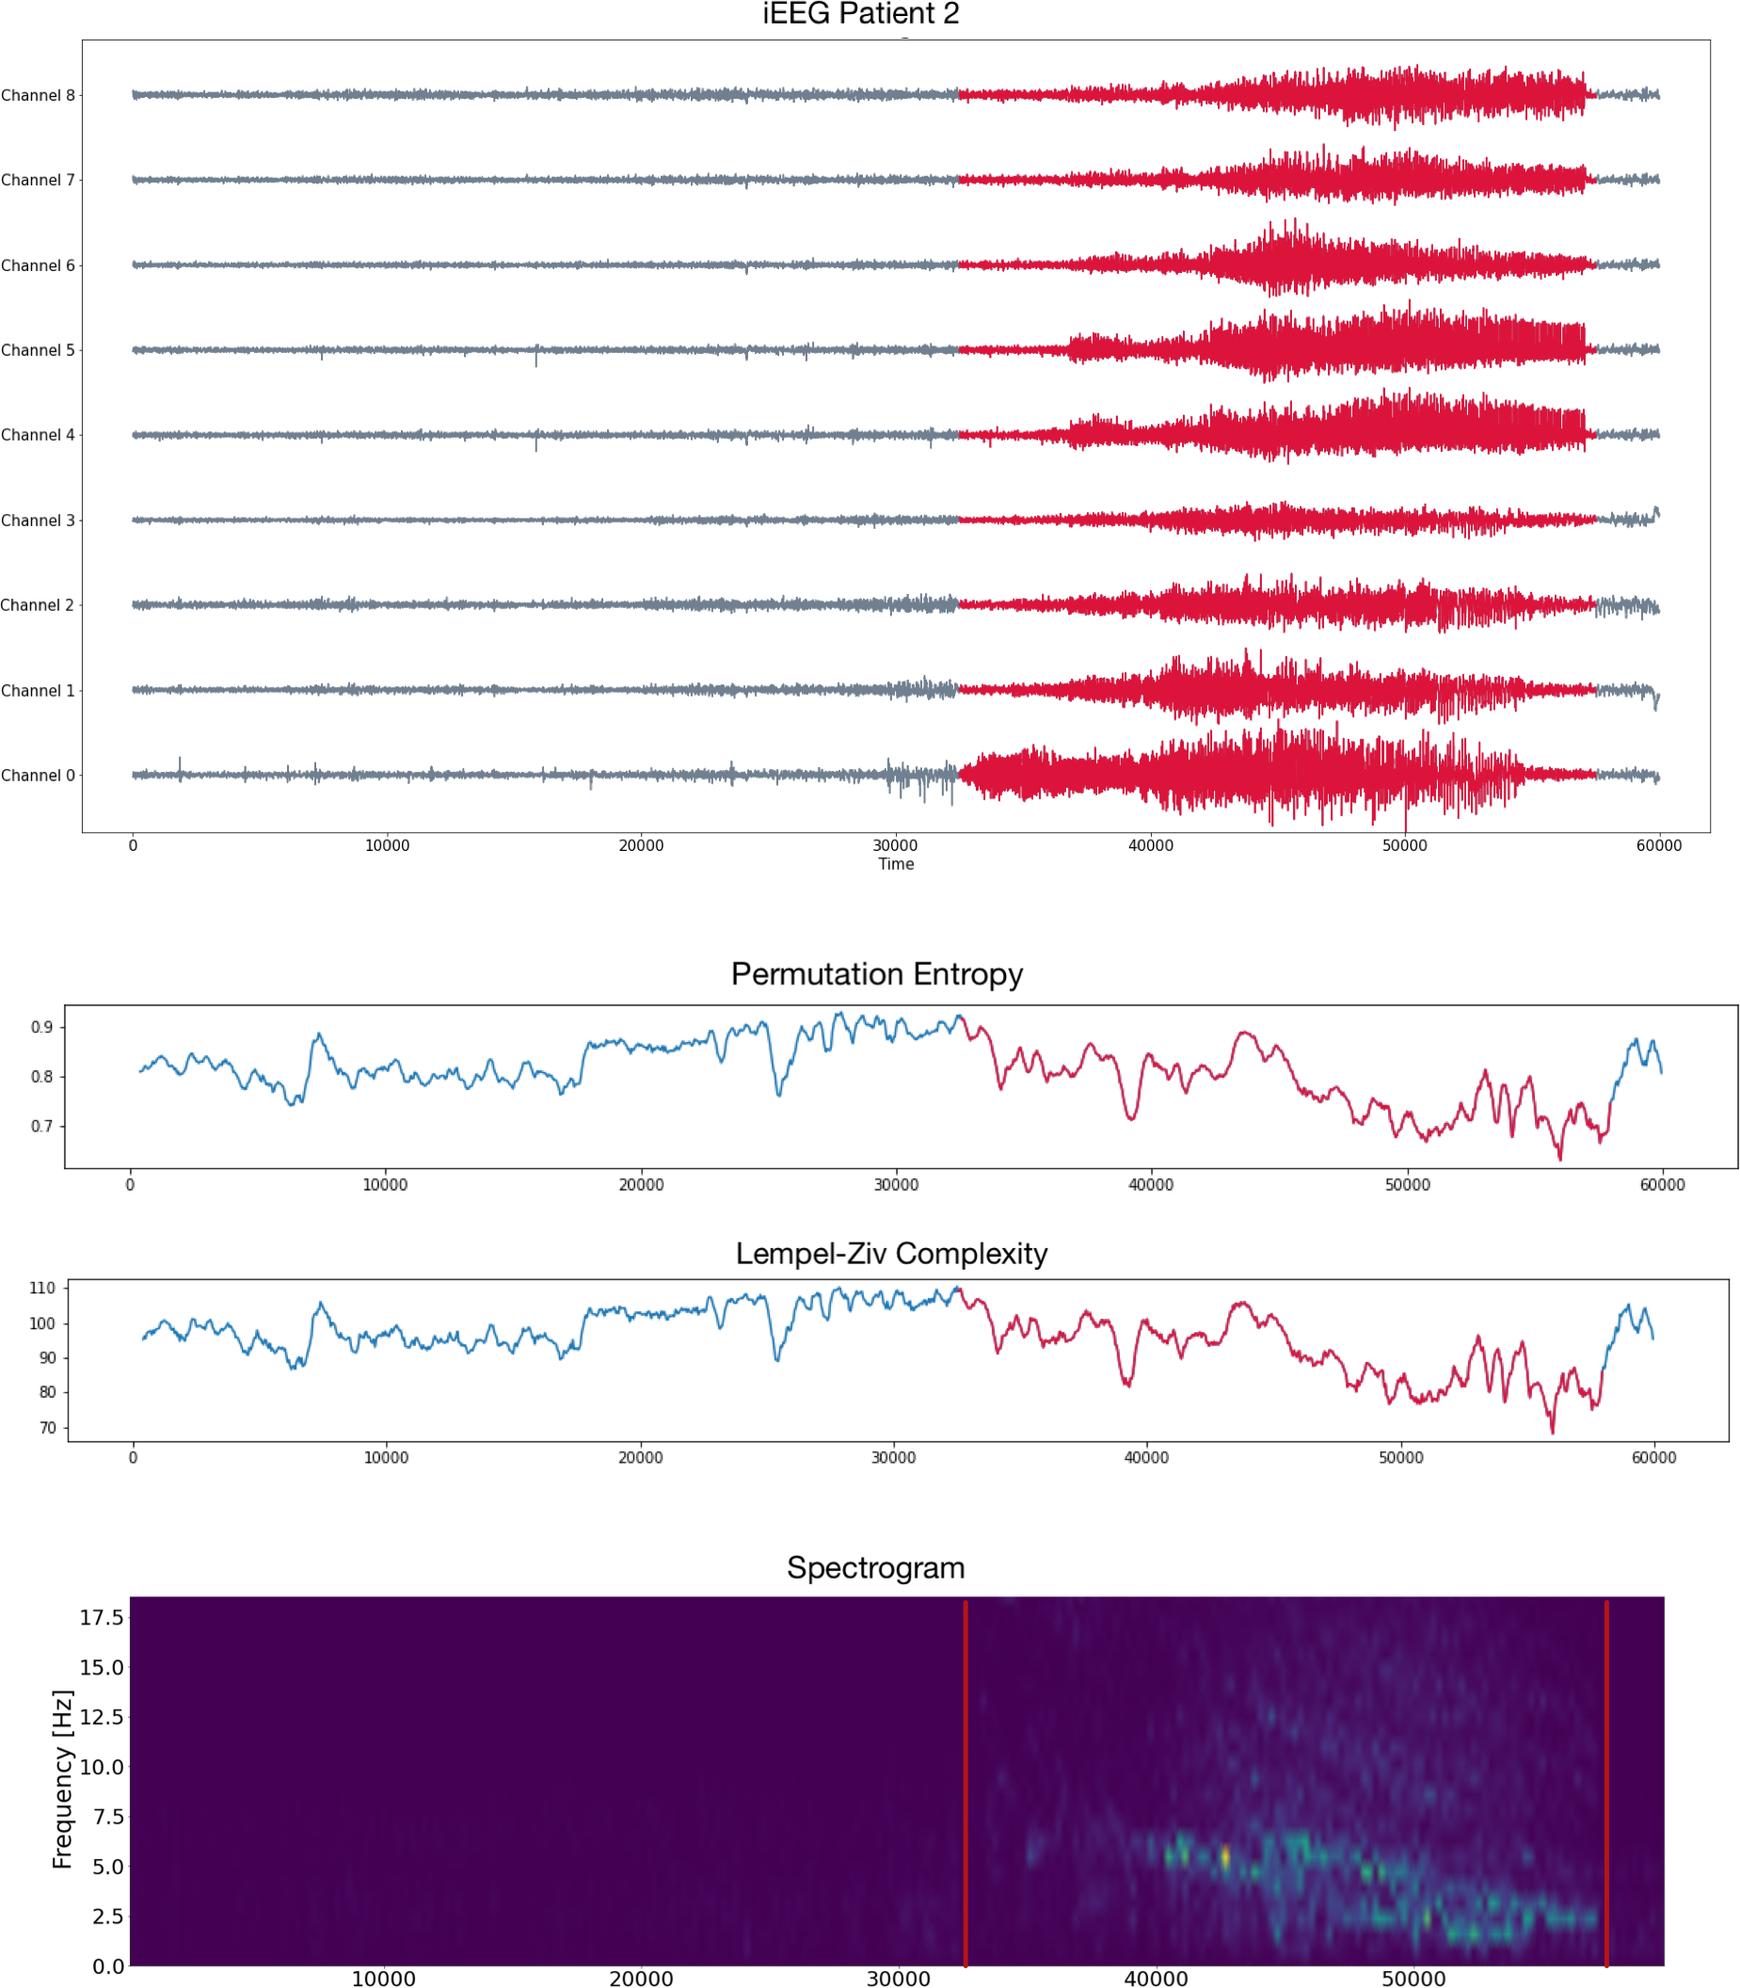
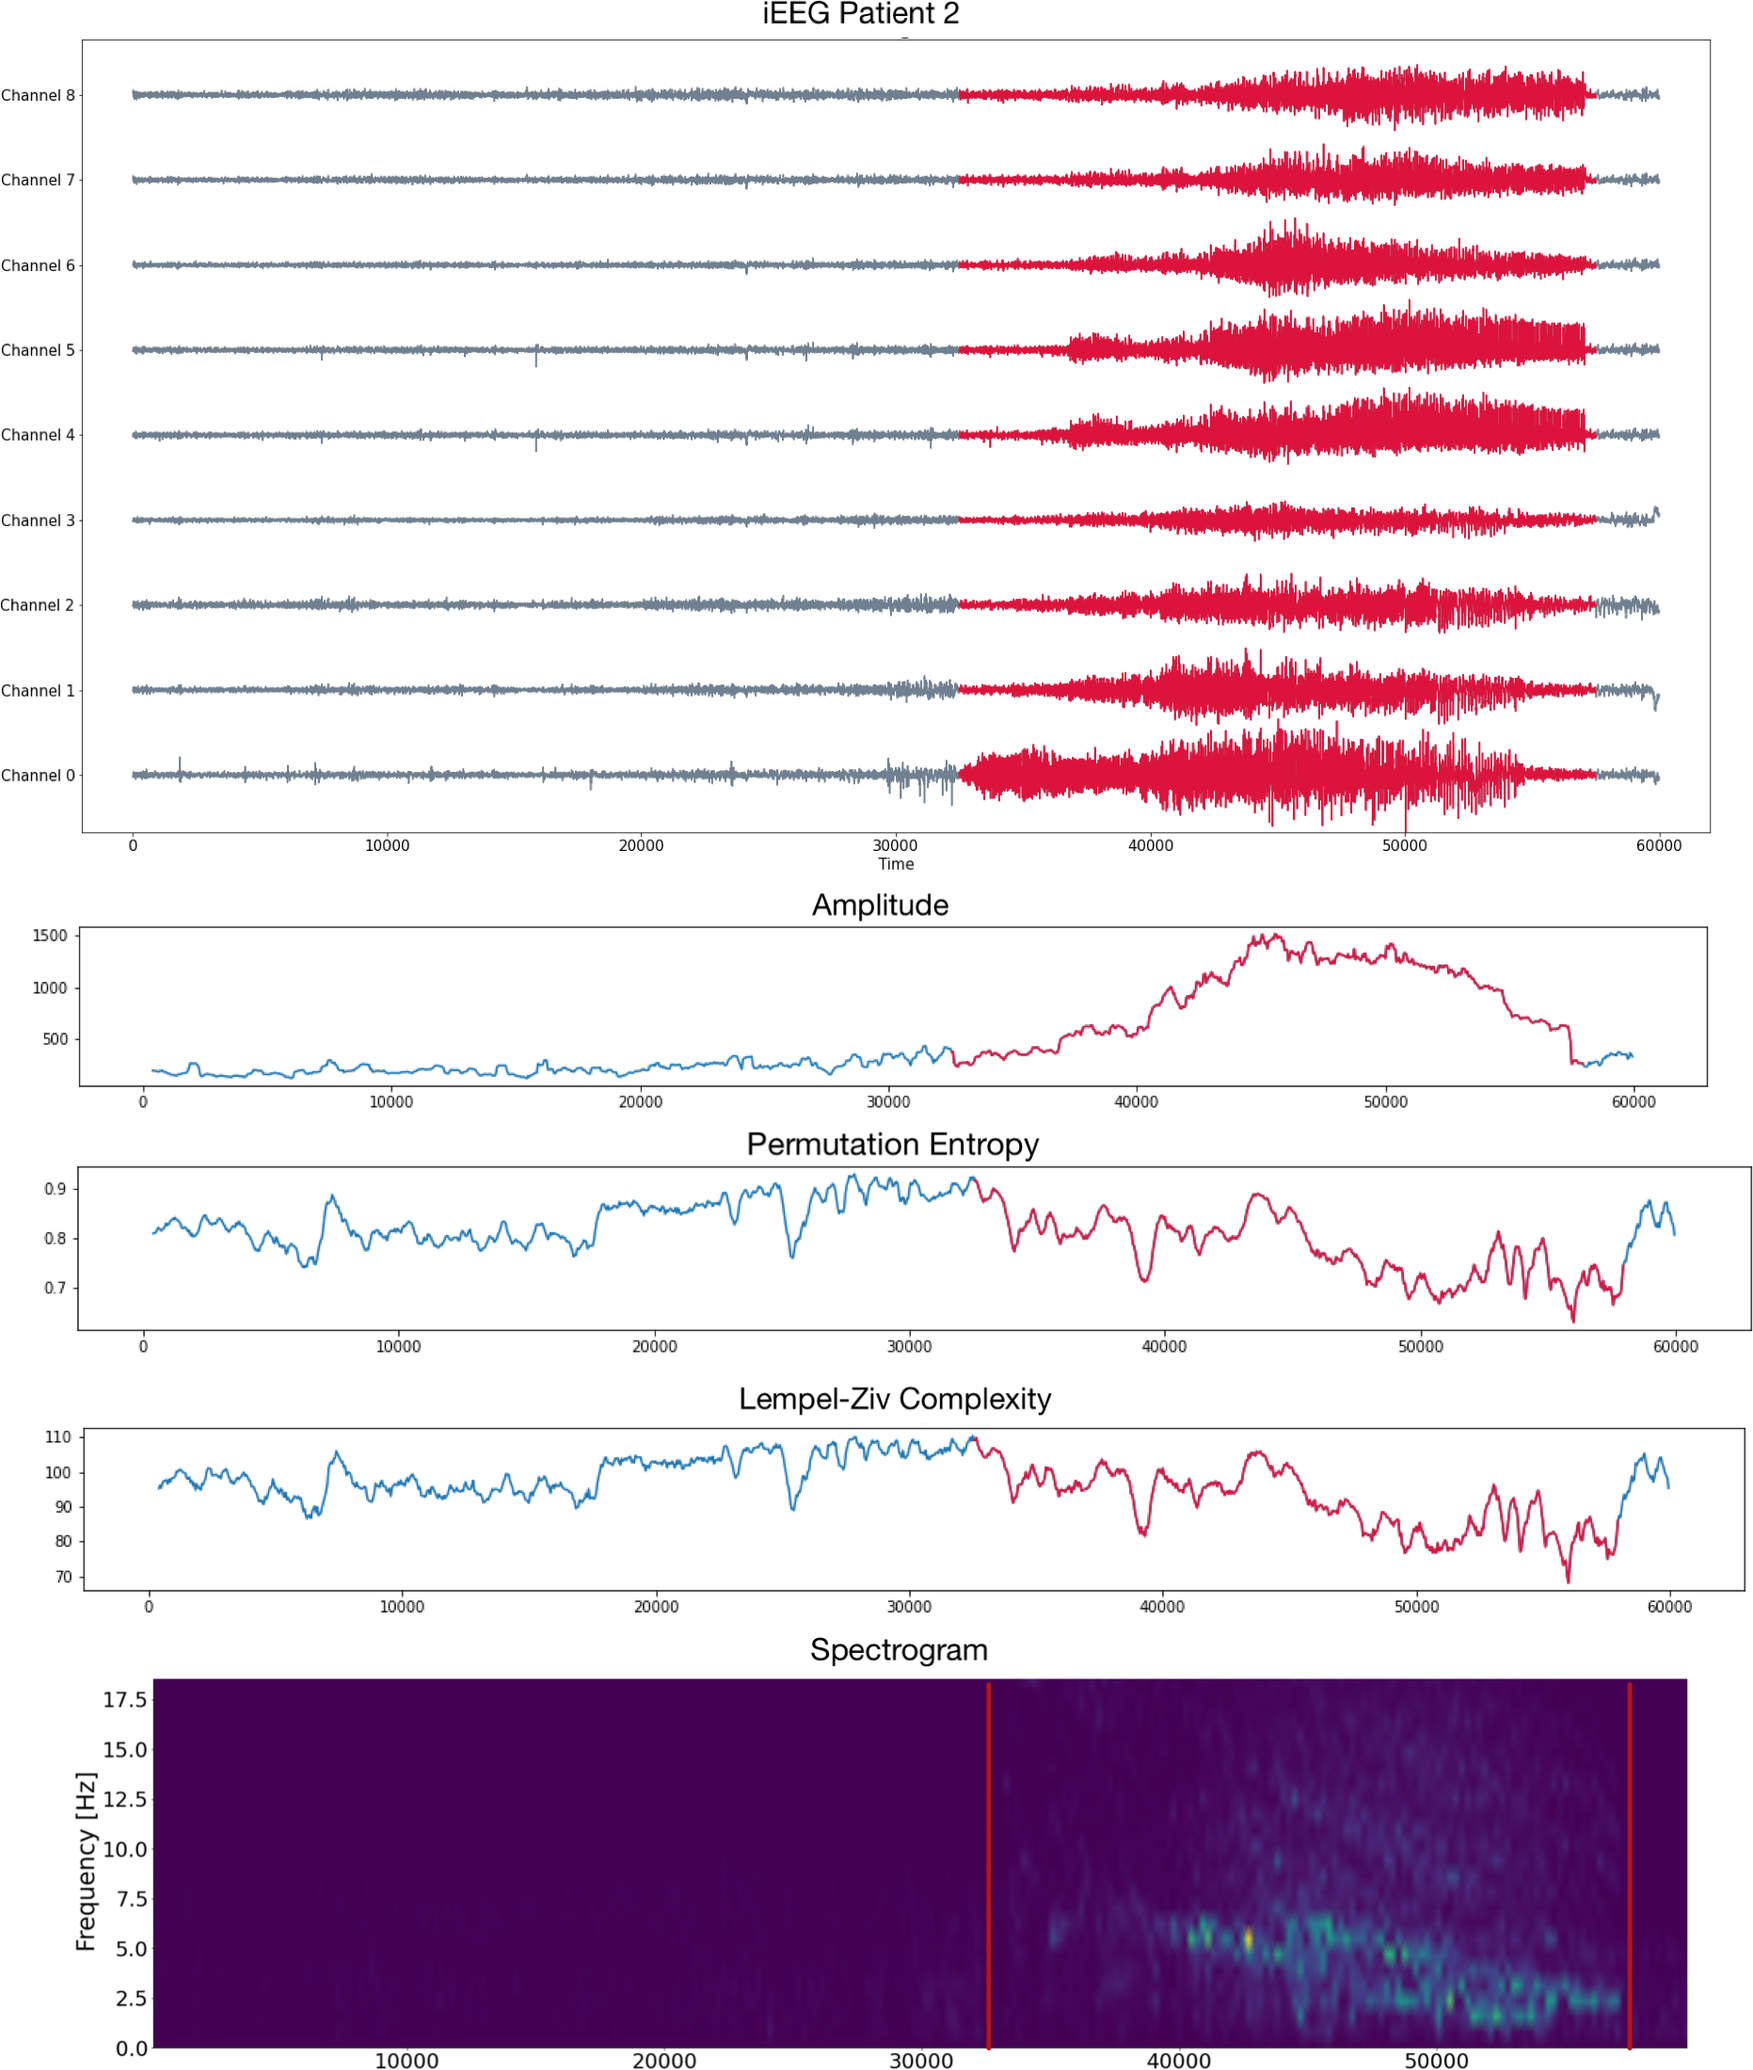
update presentation Oxford 27 Jan

diff --git a/slides/Epilepsy_Oxford.html b/slides/Epilepsy_Oxford.html
@@ -154,7 +154,7 @@
 					<p><b>Brain activity:</b>
 					<ul>
 					<li><span style="color: slategrey">interictal state</span> <br> normal (stochastic/quasi-deterministic) activity</li>
-					<li> <span style="color: red">ictal state</span> <br> abnormal synchronous activity</ul>
+					<li> <span style="color: red">ictal state</span> <br> abnormal <b>synchronous</b> activity</ul>
 					</ul>
 					</span>
 					</p>
@@ -312,10 +312,15 @@
 					<span style="font-size: 22px; text-align:left;">
 						<br>
 								<ul>
+
+									<li><i><b style="color: red">Amplitude.</i></b> Differences between the variable's <b>extreme values</b>.</li> 
+									<br>
 									<li><i><b style="color: red">Short-Time Fourier
-									Transform (STFT),</i></b> an estimate of the short-term time-localized frequency content.</li>
-									<li><i><b style="color: red">Lempel-Ziv complexity (LZ),</b></i> measures how diverse are the patterns that are present in a particular signal.
-									<li><i><b style="color: red">Permutation entropy,</b></i> a robust non-linear statistical measure to quantify the complexity of a dynamical system in terms of a time series.
+									Transform (STFT),</i></b> an estimate of the short-term time-localized <b>frequency</b> content.</li>
+									<br>
+									<li><i><b style="color: red">Lempel-Ziv complexity (LZ),</b></i> measures <b>diversity of the patterns</b> present in a particular signal.</li>
+									<br>
+									<li><i><b style="color: red">Permutation entropy,</b></i> a robust non-linear statistical measure to quantify the <b>complexity</b> of a dynamical system in terms of a time series.
 									</li>
 						</ul>
 					</span>
@@ -328,8 +333,8 @@
 
 
 				<section data-auto-animate>
-					<h6>Diagnosis and Signal analysis</h6>
-						<img style = " margin-top: -8px;" width="560" height = auto  src='media_epilepsy/CC_standard.png'>
+					<h6>Signal analysis</h6>
+						<img style = " margin-top: -8px;" width="540" height = auto  src='media_epilepsy/CC_standard.png'>
 				</section>
 
 
@@ -384,7 +389,7 @@
 						for all $1\leq i \leq n$.-->
 					</li>
 					<br>
-					<li> We analyze the underlying (unknown) dynamics by studying their <b style="color: red">attractors</b> (that is, the asymptotic states of the system).
+					<li> We analyze the underlying (unknown) <b>dynamics</b> by studying their <b style="color: red">attractors</b> (that is, the asymptotic states of the system).
 					</li>
 					</ul>
 					<!--<img width="800" height = 250 src='media_epilepsy/EEG_CbMIT_cropped.png'/>-->
@@ -809,23 +814,23 @@ for all $1\leq i \leq n$.-->
 				</section>
 
 				<section data-auto-animate>
-					<h5>Patient 1</h5>
+					<h5>Patient 1 (EEG)</h5>
 					<span style="font-size: 20px; text-align:left;">
 					<ul>
 					<li> Scalp EEG with 23 sensors at frequency 256 Hz.</li>
 					<li> <i>Source:</i> <a href="https://physionet.org/content/chbmit/1.0.0/">CHB-MIT database</a> from Children’s Hospital Boston, USA.
 					</ul>
 					</span>
-					<img  width="700" height ="550" src='media_epilepsy/EEG_patient1.png'/>
+					<img  width="680" height ="530" src='media_epilepsy/EEG_patient1.png'/>
 				</section>
 
 				<section data-auto-animate>
-					<h5>Patient 1</h5>
-					<img  style = "margin-top: -10px;"  width="580" height = auto src='media_epilepsy/EEG_CHMIT_all.png'/>
+					<h5>Patient 1 (EEG)</h5>
+					<img  style = "margin-top: -15px;"  width=auto height = 600 src='media_epilepsy/EEG_CHMIT.png'/>
 				</section>
 
 				<section data-auto-animate>
-					<h5>Patient 2</h5>
+					<h5>Patient 2 (iEEG)</h5>
 					<span style="font-size: 20px; text-align:left;">
 					<ul>
 					<li> Intracraneal EEG with 9 sensors at frequency 200 Hz.</li>
@@ -837,8 +842,8 @@ for all $1\leq i \leq n$.-->
 
 
 				<section data-auto-animate>
-					<h5>Patient 2</h5>
-					<img  style = "margin-top: -10px;" width=auto height = 700 src='media_epilepsy/CC_all_2.png'/>
+					<h5>Patient 2 (iEEG)</h5>
+					<img  style = "margin-top: -20px;" width=600 height = 690 src='media_epilepsy/CC_all_2.png'/>
 				</section>
 
 				<!--
@@ -881,7 +886,7 @@ for all $1\leq i \leq n$.-->
 				-->
 
 				<section data-auto-animate>
-					<h5>Patient 3</h5>
+					<h5>Patient 3 (MEG)</h5>
 					<span style="font-size: 20px; text-align:left;">
 					<ul>
 					<li> MEG with 144 sensors at frequency 625 Hz</li>
@@ -893,10 +898,10 @@ for all $1\leq i \leq n$.-->
 				</section>
 
 				<section data-auto-animate>
-					<h5>Patient 3</h5>
+					<h5>Patient 3 (MEG)</h5>
 
 					<img  style = "margin-top: -10px;" width="490" height = 300 src='media_epilepsy/MAC_MEG_seizure.png'/>
-					<img   style = "margin-top: -10px;"  width="490" height = 320 src='media_epilepsy/Patient_MAC-2.png'/>
+					<img   style = "margin-top: -20px;"  width="490" height = 320 src='media_epilepsy/Patient_MAC-2.png'/>
 
 				</section>
 
@@ -916,7 +921,7 @@ for all $1\leq i \leq n$.-->
 						<br>
 						<li><b style="color: red">Time step</b> $\varepsilon$ equivalent to 0.5 seconds.</li>
 						<br>
-						<li><b style="color: red">Execution time</b> (MacBook Pro 8-core CPU 32-core GPU 16 GB unified memory):
+						<li><b style="color: red">Execution time</b> <i>(MacBook Pro 8-core CPU 32-core GPU 16 GB unified memory)</i>:
 							<ul>
 								<li>Persistence diagrams (Ripser) $\sim 0.25$ seconds</li>
 								<li>1-Wasserstein distance (Ripser) $\sim 0.1$ seconds</li>
@@ -947,7 +952,7 @@ for all $1\leq i \leq n$.-->
 					</ul>
 					<br>
 					<br>
-					<p  class = "fragment" > <b>Goal:</b> Compare how <span style="color: red">local vs global</span> dynamics changes over the time.
+					<p  class = "fragment" > <b>Goal:</b> Topologically understand how <span style="color: red">local vs global</span> dynamics changes over the time.
 					</p>
 					</span>
 				</section>
@@ -1042,8 +1047,8 @@ for all $1\leq i \leq n$.-->
 				\end{align}
 				</blockquote>
 				<p class="fragment"> <i class="fas fa-lightbulb"></i>
-				 Given a single <b style="color: red">time series data</b> $\varphi_i(t)$ observed
-				from a (potentially unknown) dynamical system $(X, \phi)$, <b style="color: red">Takens’ theorem</b> implies that (generically) the <b style="color: red">time delay embedding</b> $X_{d,\tau}\varphi_i([0,T])$ provides a topological copy of $\{\phi(t, x_0) ∶ t \in [0,T]\} \subseteq X$ for a start point $x_0\in X$. 
+				 Given a <b style="color: red">single time series data</b> $\varphi_i(t)$ observed
+				from a (potentially unknown) <b style="color: red">dynamical system</b> $(X, \phi)$, <b style="color: red">Takens’ theorem</b> implies that (generically) the <b style="color: red">time delay embedding</b> $X_{d,\tau}\varphi_i([0,T])$ provides a topological copy of $\{\phi(t, x_0) ∶ t \in [0,T]\} \subseteq X$ for a start point $x_0\in X$. 
 				</p>
 				</span>			
 			</section>
@@ -1118,16 +1123,28 @@ for all $1\leq i \leq n$.-->
 				<section data-auto-animate>
 					<h3>Analysis by channel</h3>
 					<img  width='700' height = auto src='media_epilepsy/CC_iEEG_seizure_bis.png'/>
-					<img  width='840' height = auto src='media_epilepsy/CC_iEEG_by_channel_H1.png'/>
+					<img  style = "margin-top: -10px;" width='840' height = auto src='media_epilepsy/CC_iEEG_by_channel_H1.png'/>
+
+				</section>
+
+				<section data-auto-animate>
+					<h3>Analysis by channel</h3>
+					<img  width='700' height = auto src='media_epilepsy/CC_iEEG_seizure_bis.png'/>
+					<img  style = "margin-top: -10px;"  width='840' height = auto src='media_epilepsy/CC_iEEG_by_channel_H1_general.png'/>
 
 				</section>
 
 				<section data-auto-animate>
 					<h3>Analysis by channel</h3>
 					<img  style = "margin-top: -10px; " width="650" height = auto src='media_epilepsy/MAC_cut.png'/>
-					<img  style = "margin-top: -10px; margin-left: 25px;" width="610" height = 140 src='media_epilepsy/Takens_MAC.png'/>
+					<img  style = "margin-top: -20px; margin-left: 25px;" width="780" height = 145 src='media_epilepsy/MAC_MEG_by_channel_H1.png'/>
 				</section>
 
+				<section data-auto-animate>
+					<h3>Analysis by channel</h3>
+					<img  style = "margin-top: -10px; " width="650" height = auto src='media_epilepsy/MAC_cut.png'/>
+					<img  style = "margin-top: -20px; margin-left: 0px;" width="780" height = 145 src='media_epilepsy/MAC_MEG_by_channel_H1_general.png'/>
+				</section>
 
 				
 				<section data-auto-animate> <h3>Summary</h3>
@@ -1137,7 +1154,42 @@ for all $1\leq i \leq n$.-->
 						<br>
 						<ul>	
 							<li> <b style="color: red">Automated detection.</b>
-							<br>$~~~~$<i>It is possible to <b style="color: red">topologically</b> and <b style="color: red">computationally detect epileptic seizures</b> by means of <b>time-evolving persistent diagrams</b>.</i>
+							<br>$~~~~$<i>It is possible to <b style="color: red">topologically</b> and <b style="color: red">computationally detect epileptic seizures</b> by means of <b>time-evolving persistence diagrams</b>.</i>
+							</li>
+						</ul>
+
+				</span>
+			
+				</section>
+
+								<section data-auto-animate> <h3>Summary</h3>
+					
+					<span style="font-size:22px; text-align:left"> 
+
+						<br>
+						<ul>	
+							<li> <b style="color: red">Automated detection.</b>
+							<br>$~~~~$<i>It is possible to <b style="color: red">topologically</b> and <b style="color: red">computationally detect epileptic seizures</b> by means of <b>time-evolving persistence diagrams</b>.</i>
+							</li>
+							<br>
+
+							<li> <b style="color: red">Universality.</b>
+							<br><i>$~~~~$The topological biomarkers are sensitive to epileptic activity under a <b style="color: red">variety of settings</b>: different <b>methods of recording</b> (MEG, EEG, iEEG), <b>number of sensors</b> and <b>types of epilepsy</b>.</i>
+							</li>
+						</ul>
+
+				</span>
+			
+				</section>
+
+								<section data-auto-animate> <h3>Summary</h3>
+					
+					<span style="font-size:22px; text-align:left"> 
+
+						<br>
+						<ul>	
+							<li> <b style="color: red">Automated detection.</b>
+							<br>$~~~~$<i>It is possible to <b style="color: red">topologically</b> and <b style="color: red">computationally detect epileptic seizures</b> by means of <b>time-evolving persistence diagrams</b>.</i>
 							</li>
 							<br>
 
@@ -1147,7 +1199,32 @@ for all $1\leq i \leq n$.-->
 							<br>
 
 							<li> <b style="color: red">Robustness.</b>
-							<br><i>$~~~~$The topological summaries are (more) robust to <b style="color: red">noisy recordings</b> since they aim to capture changes in <b>homotopy type</b> of the embedding.</i></li>
+							<br><i>$~~~~$The topological summaries are (more) robust to <b style="color: red">noisy recordings</b> <b>(stability)</b>.</i></li>
+						</ul>
+
+
+				</span>
+			
+				</section>
+
+				<section data-auto-animate> <h3>Summary</h3>
+					
+					<span style="font-size:22px; text-align:left"> 
+
+						<br>
+						<ul>	
+							<li> <b style="color: red">Automated detection.</b>
+							<br>$~~~~$<i>It is possible to <b style="color: red">topologically</b> and <b style="color: red">computationally detect epileptic seizures</b> by means of <b>time-evolving persistence diagrams</b>.</i>
+							</li>
+							<br>
+
+							<li> <b style="color: red">Universality.</b>
+							<br><i>$~~~~$The topological biomarkers are sensitive to epileptic activity under a <b style="color: red">variety of settings</b>: different <b>methods of recording</b> (MEG, EEG, iEEG), <b>number of sensors</b> and <b>types of epilepsy</b>.</i>
+							</li>
+							<br>
+
+							<li> <b style="color: red">Robustness.</b>
+							<br><i>$~~~~$The topological summaries are (more) robust to <b style="color: red">noisy recordings</b> <b>(stability)</b>.</i></li>
 
 							<br>
 
@@ -1155,6 +1232,8 @@ for all $1\leq i \leq n$.-->
 							<br><i>$~~~~$ This is a <b style="color: red">unsupervised method</b> (<b>no preprocessing or training step)</b>, which updates every $\varepsilon$ seconds (for reasonable choices of $\omega$ and $\varepsilon$) and can be computed in <b style="color: red">real time</b>.</i>
 							</li>
 						</ul>
+						<br>
+						<p class="fragment"><b>Next step.</b> Explain the connection between the dynamic features of epileptic seizures and the topological biomarkers.</p>
 
 
 					<!--
